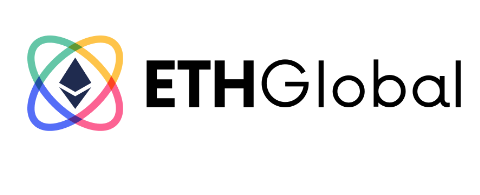
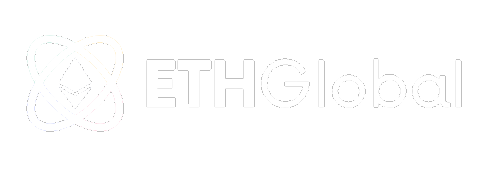
Changed Partners and Product Features BG

Changed region(s): [[0.0312, 0.1538, 0.9688, 0.6769]]

diff --git a/frontend/src/components/Home/Partners.tsx b/frontend/src/components/Home/Partners.tsx
@@ -1,4 +1,4 @@
-import { Card, Col, Container, Row } from "react-bootstrap";
+import {Col, Container, Row } from "react-bootstrap";
 import PolygonLogo from "assets/images/polygon.png";
 import EthGlobalLogo from "assets/images/ethglobal.png";
 import ChainlinkLogo from "assets/images/chainlink.png";
@@ -7,7 +7,7 @@ import SuperfluidLogo from "assets/images/superfluid.png";
 const PartnerImages = [
   {
     id: 1,
-    image: ChainlinkLogo,
+    image: EthGlobalLogo,
   },
   {
     id: 2,
@@ -15,7 +15,7 @@ const PartnerImages = [
   },
   {
     id: 3,
-    image: EthGlobalLogo,
+    image: ChainlinkLogo,
   },
   {
     id: 4,
@@ -25,22 +25,18 @@ const PartnerImages = [
 
 export default function Partners() {
   return (
-    <Container>
+    <Container className = "bg-primary rounded-3 top-100 start-50 position-absolute translate-middle">
+      {/*
       <div className="text-center">
-        <h1 className="p-3 mt-5 text-primary">Partners</h1>
+        <h1 className="p-3 mt-5 text-light">Partners</h1>
       </div>
-      <Row className="d-flex px-3">
+      */
+}
+      <Row className="d-flex mb-0 align-items-center mx-auto p-3">
         {
           PartnerImages.map((partner) => (
-            <Col md={3} key={partner.id}>
-              <Card className="border-0">
-                <Card.Body>
-                  <Card.Img
-                    src={partner.image}
-                    className="partner_image"
-                  />
-                </Card.Body>
-              </Card>
+            <Col md={3} key={partner.id} className = "">
+              <img className="img-fluid"src={partner.image} alt=""/>
             </Col>
           ))
         }

diff --git a/frontend/src/components/Home/Hero.tsx b/frontend/src/components/Home/Hero.tsx
@@ -6,6 +6,7 @@ import useMetaMask from "hooks/useMetaMask";
 import { BUSINESS_PATH } from "pages/business/routes/page-paths";
 import { INDIVIDUAL_PATHS } from "pages/personal/routes/page-paths";
 import useBoolean from "hooks/useBoolean";
+import Partners from "./Partners";
 
 export default function Hero({ isBusinessMode }) {
   const [connectWallet] = useMetaMask();
@@ -16,8 +17,9 @@ export default function Hero({ isBusinessMode }) {
   };
 
   return (
+    <div className="position-relative">
     <Container fluid className={`hero_bg ${ isBusinessMode ? "business_bg" : "personal_bg" }`}>
-      <div className="row flex-lg-row-reverse align-items-center g-5 py-5">
+      <div className="row flex-lg-row-reverse align-items-center py-5">
         <Container className="ps-5">
           <Row className="ms-5 mt-5">
             <Col md={5} sm={12} className="z_10">
@@ -74,7 +76,7 @@ export default function Hero({ isBusinessMode }) {
                   </Nav.Link>
                 </Nav.Item>
               </Nav>
-              <Row className="my-4 px-3">
+              <Row className="mb-5 px-3 py-5">
                 <Col>
                   <Button onClick={handleWalletConnect} disabled={!selectOption} className="w-100 rounded" variant="primary" size="lg">
                     Get Started
@@ -92,5 +94,7 @@ export default function Hero({ isBusinessMode }) {
         </Container>
       </div>
     </Container>
+    <Partners />
+    </div>
   );
 }

diff --git a/frontend/src/components/Home/Features.tsx b/frontend/src/components/Home/Features.tsx
@@ -46,10 +46,11 @@ export default function Features({isBusinessMode}) {
   ];
 
   return (
-    <Container className = "text-center">
-      <Row className="mt-5 ms-4">
+    <div className="bg-primary">
+    <Container className = "text-center p-4 bg-primary">
+      <Row className=" ms-4">
         <Col>
-          <p className="h1 text-primary p-5">Product Features</p>
+          <p className="h1 text-light p-5">Product Features</p>
           {/*
           <p>Trust Finance help you...</p>
           <ol className="ps-3">
@@ -127,5 +128,6 @@ export default function Features({isBusinessMode}) {
 */}
       </Row>
     </Container>
+    </div>
   );
 }

diff --git a/frontend/src/components/Layout/HomeBody.jsx b/frontend/src/components/Layout/HomeBody.jsx
@@ -1,7 +1,6 @@
 import Advantages from "components/Home/Advantages";
 import Features from "components/Home/Features";
 import Hero from "components/Home/Hero";
-import Partners from "components/Home/Partners";
 import Pricing from "components/Home/Pricing";
 import HomepageContext from "Contexts/HomepageContext";
 import { useContext } from "react";
@@ -13,9 +12,8 @@ export default function HomeBody() {
   return (
     <>
       <Hero isBusinessMode={isBusinessMode} />
-      <Partners />
-      <Features isBusinessMode = {isBusinessMode}/>
       <Advantages />
+      <Features isBusinessMode={isBusinessMode} />
       <Pricing />
     </>
   );

diff --git a/frontend/src/components/Home/Advantages.tsx b/frontend/src/components/Home/Advantages.tsx
@@ -33,8 +33,8 @@ const advantageText = [
 
 export default function Advantages() {
   return (
-    <Container className="p-4 align-content-center items-center text-center">
-      <div className="top-50 end-50 text-center p-4 text-primary">
+    <Container className="p-4 align-content-center items-center text-center mt-5 py-5">
+      <div className="top-50 end-50 text-center p-4 text-primary mt-5 py-auto">
         <h1>Core Advantages</h1>
       </div>
       <Row className="d-flex p-5">

diff --git a/frontend/src/components/Home/Pricing.tsx b/frontend/src/components/Home/Pricing.tsx
@@ -29,7 +29,7 @@ const pricingRanges = [
 
 export default function Pricing() {
   return (
-    <div className="pricing_hero p-4 mb-5">
+    <div className="pricing_hero p-4 mb-5 py-3">
       <div className="top-50 end-50 text-center p-3 text-primary">
         <h1>Pricing</h1>
       </div>

diff --git a/frontend/src/styles/index.css b/frontend/src/styles/index.css
@@ -134,8 +134,3 @@ img.core_adv {
   object-fit: contain;
 }
 
-.partner_image {
-  height: 10rem;
-  width: 5rem;
-  object-fit: contain;
-}
